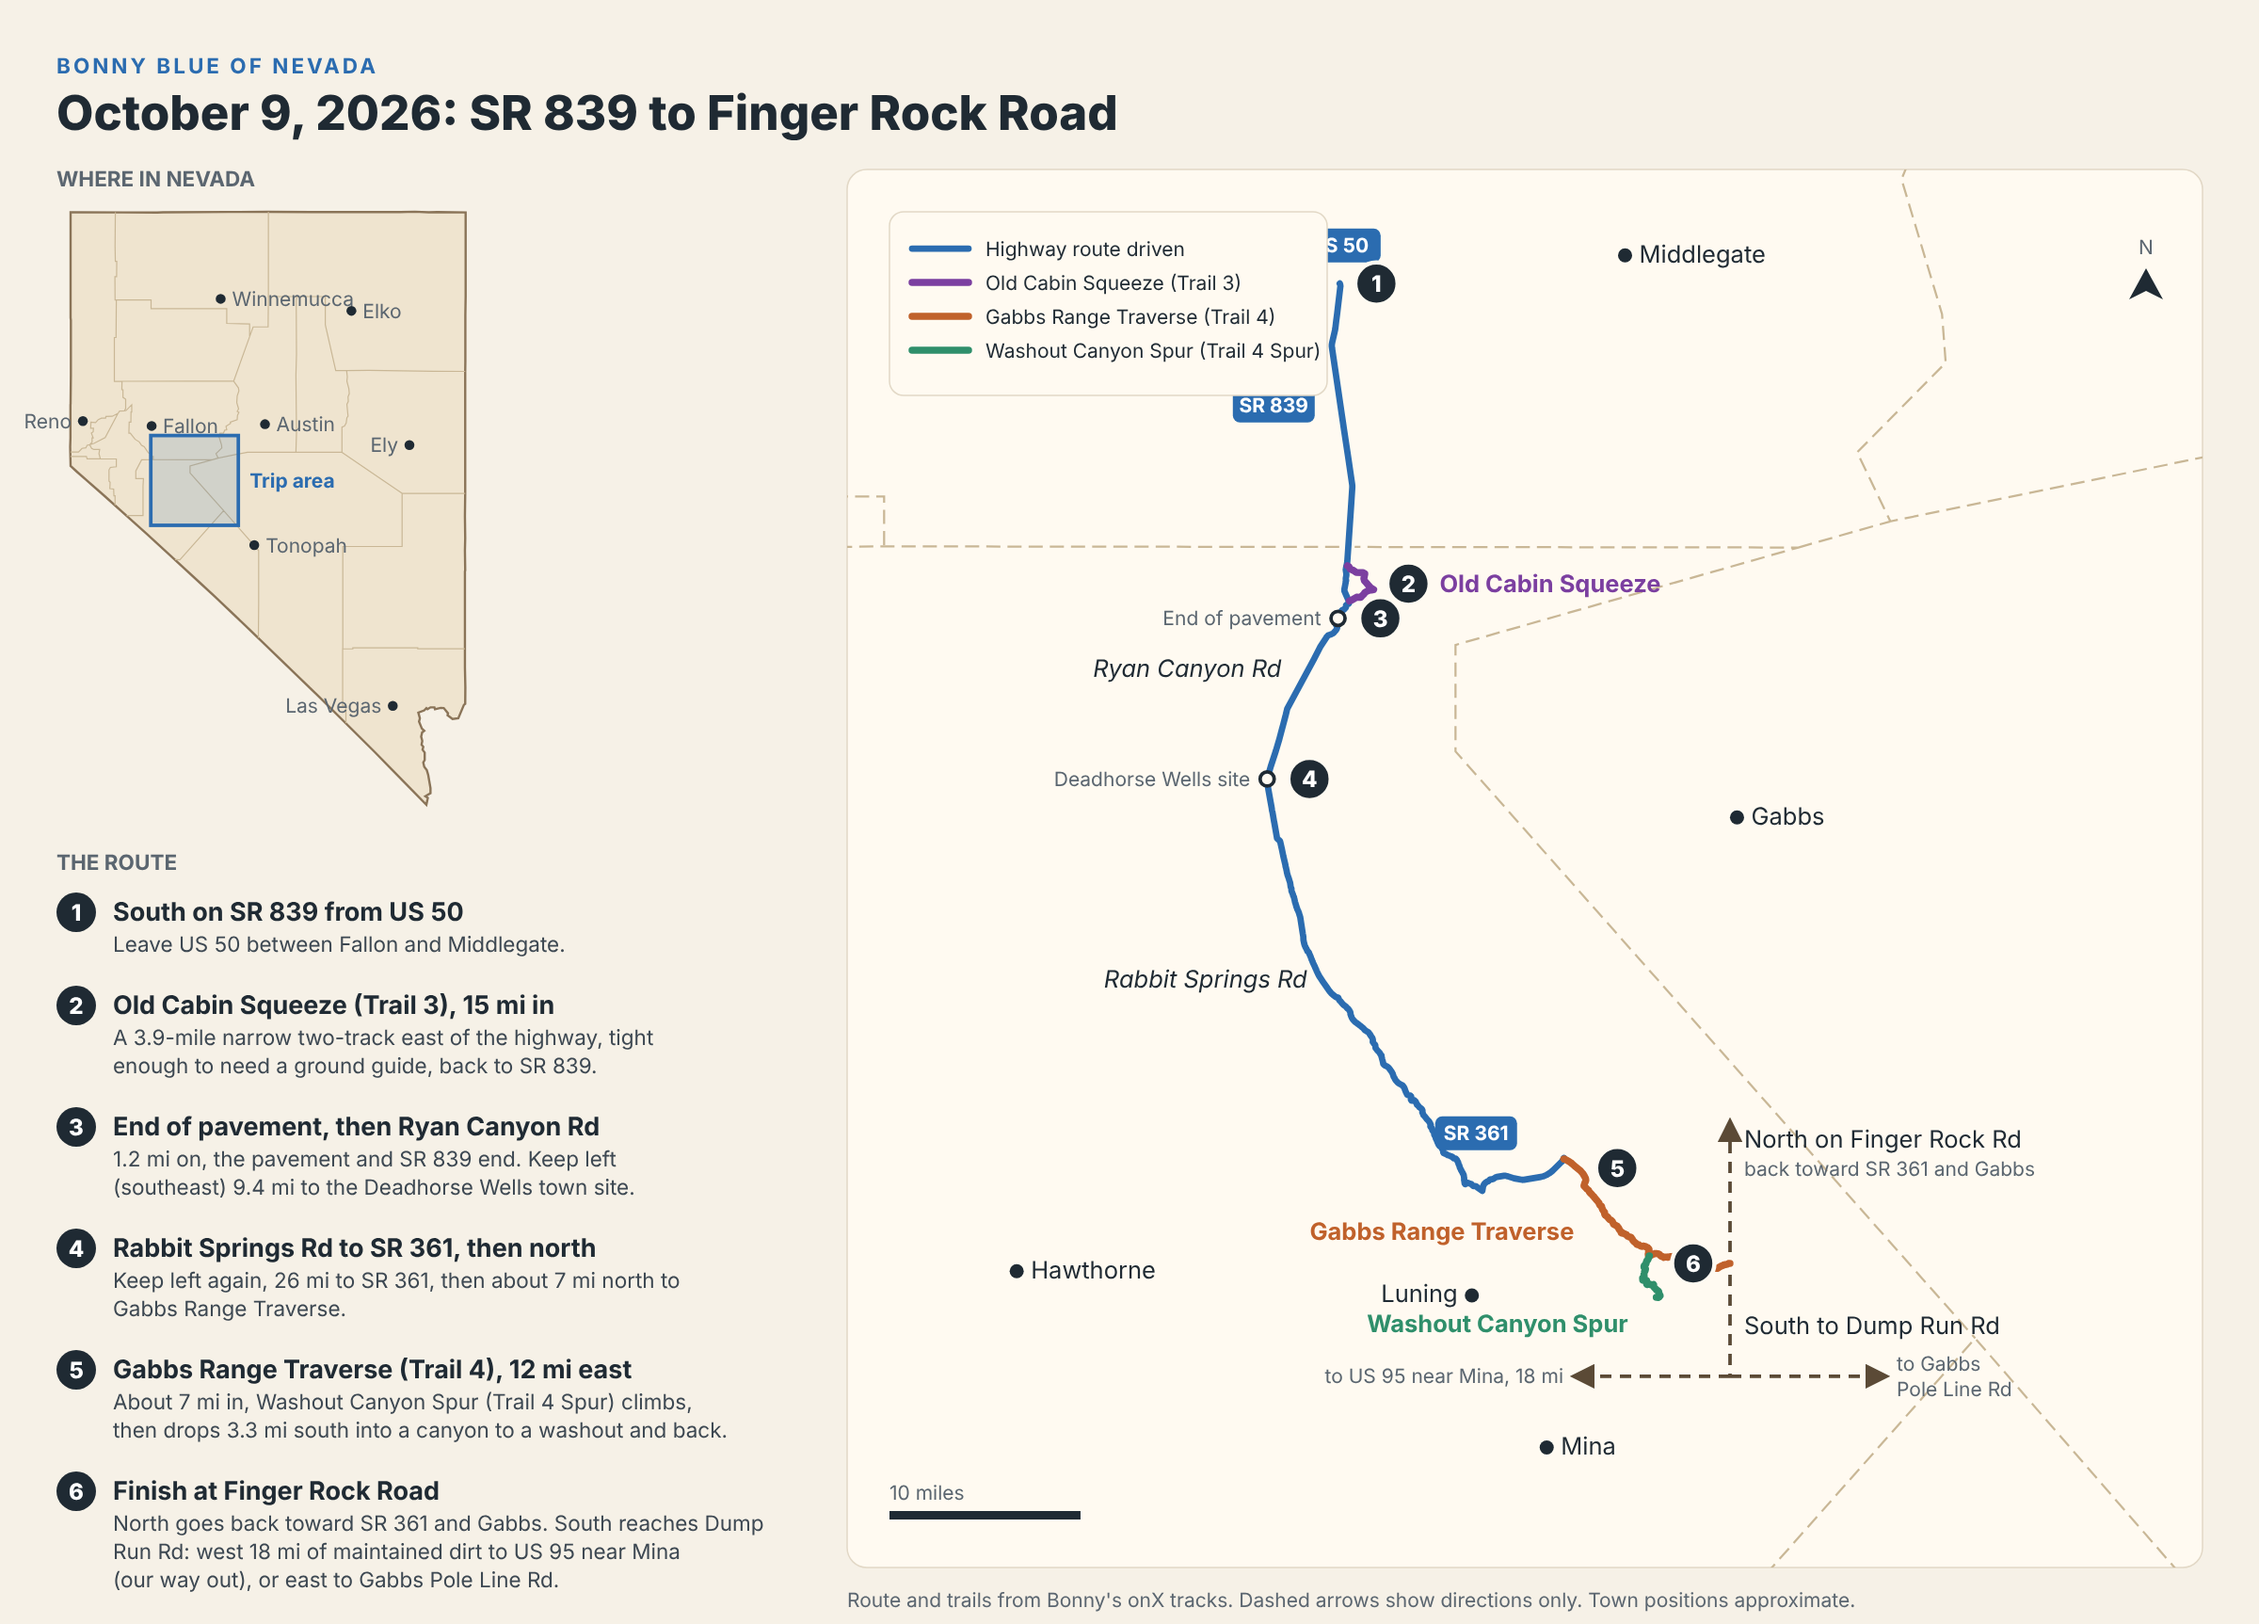
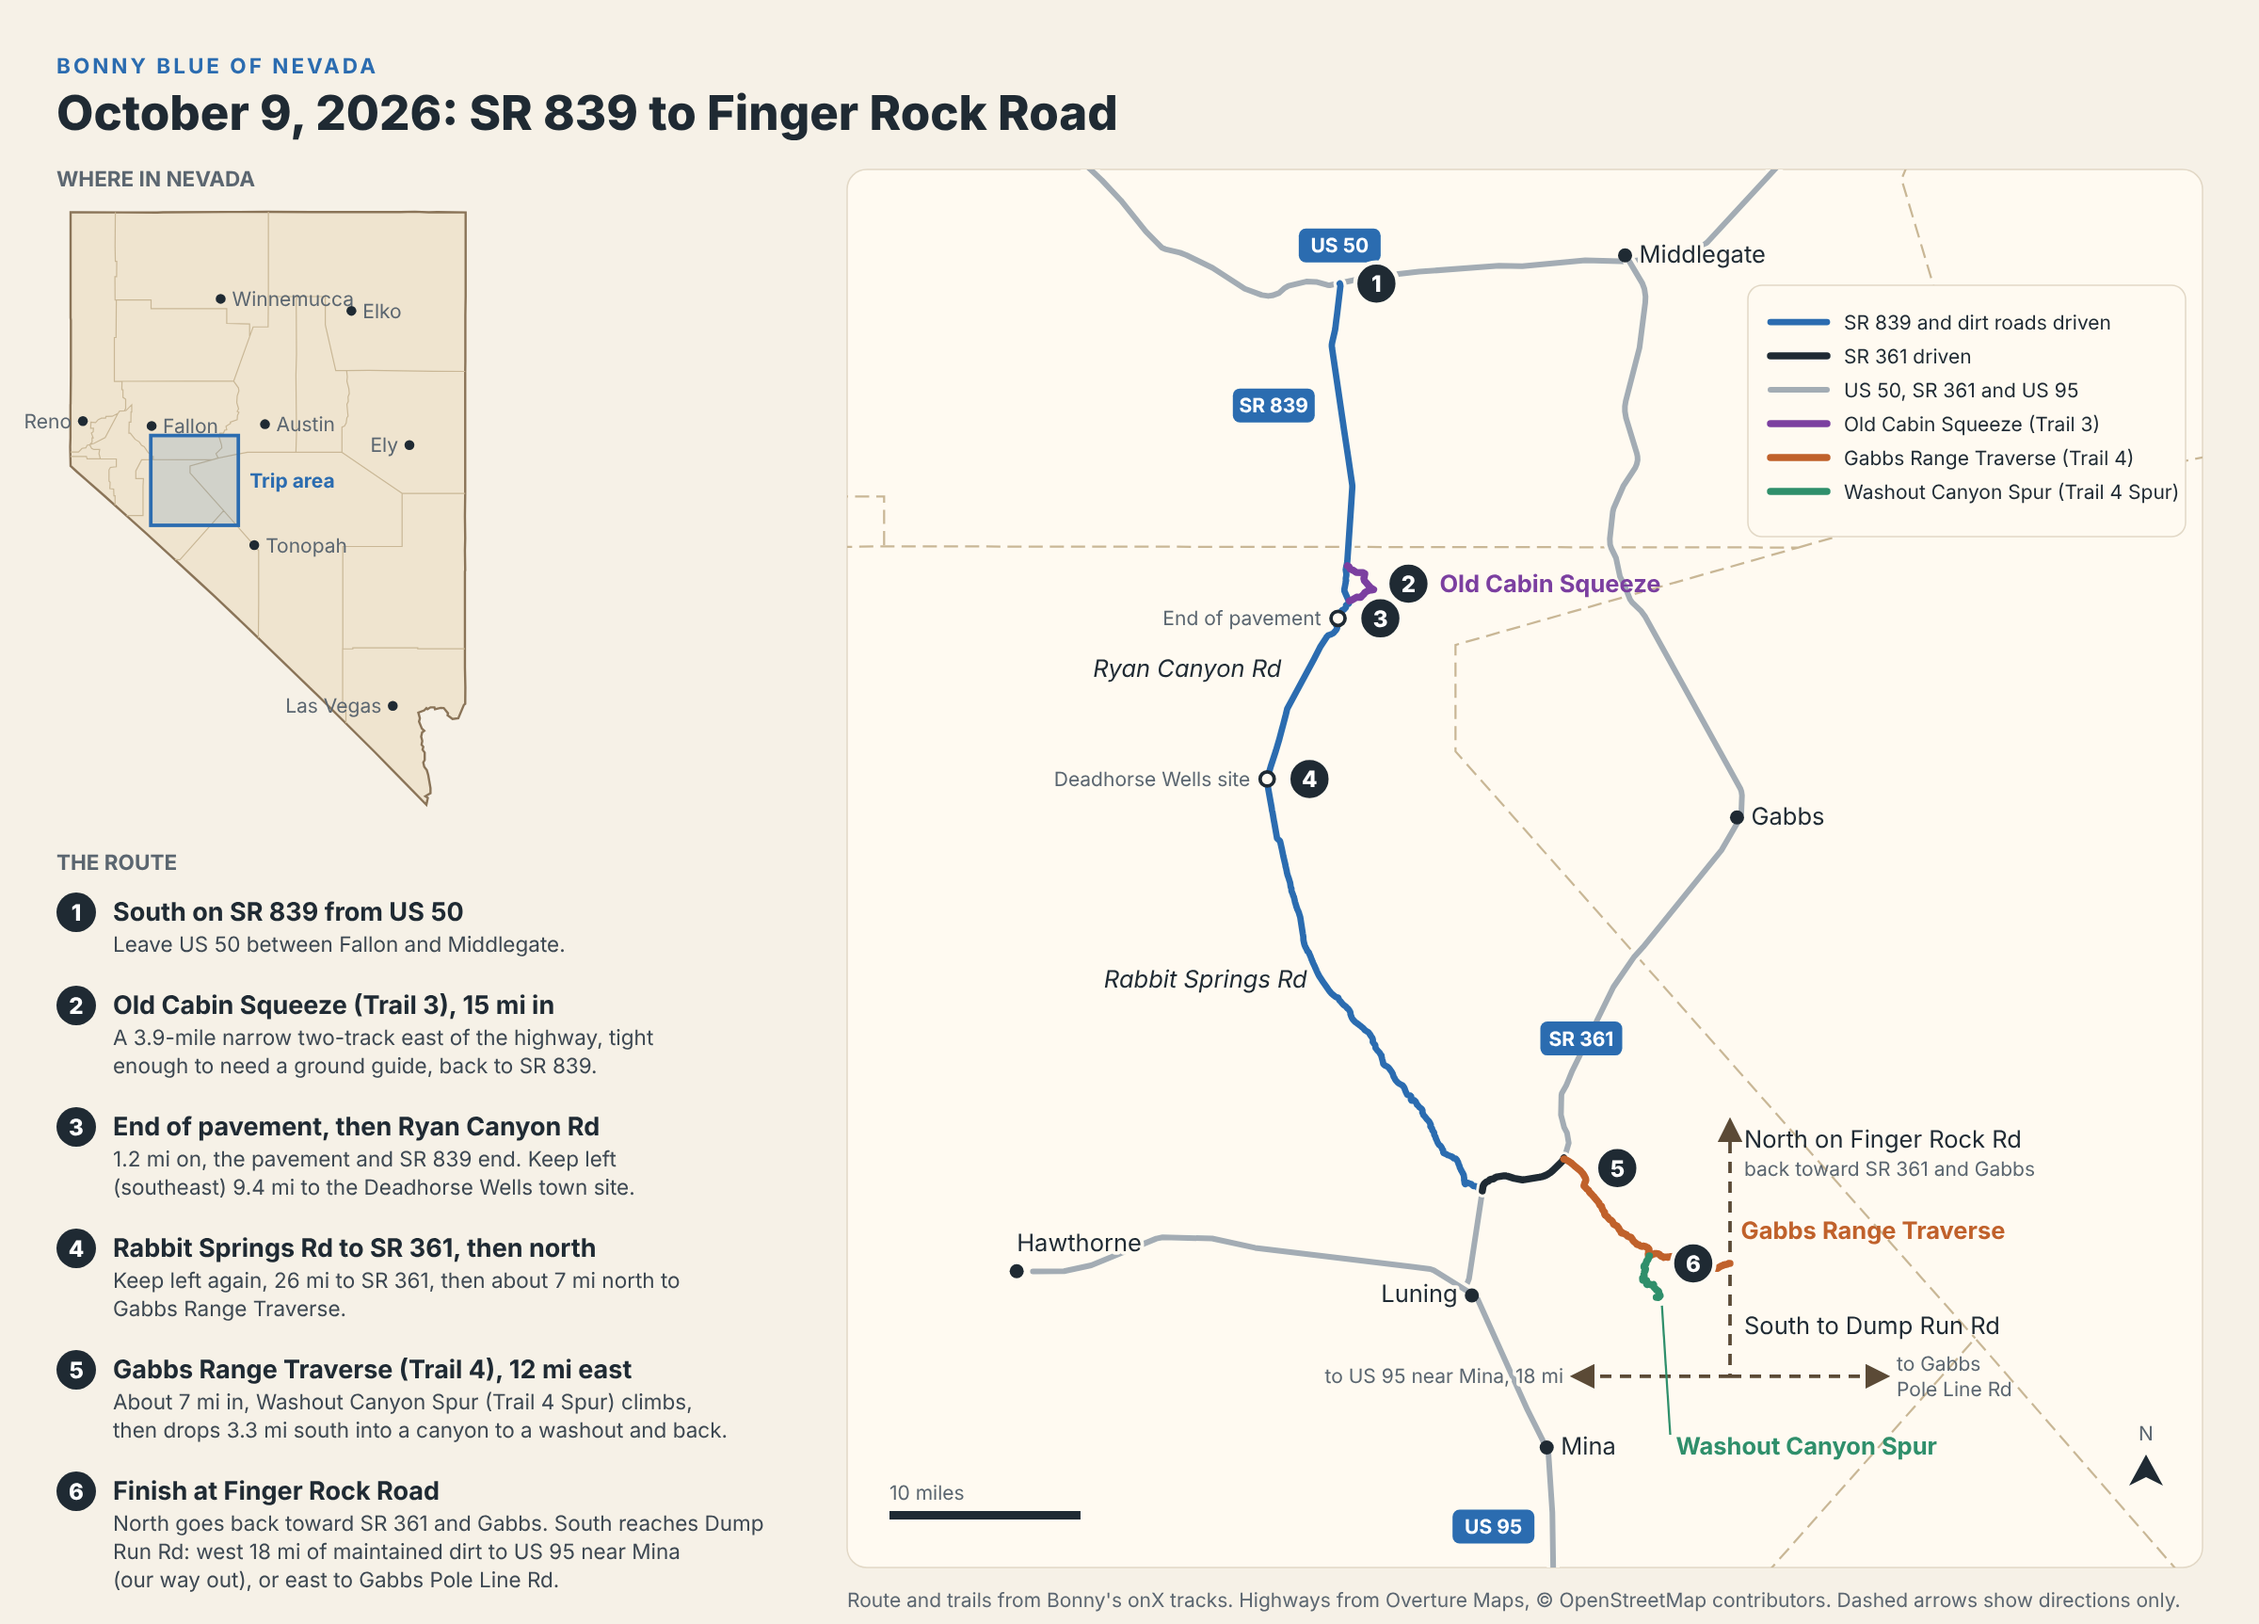
Route map: show US 50, SR 361 and US 95; color the driven SR 361 stretch
Highway lines come from Overture Maps (OpenStreetMap data).

Claude-Session: https://claude.ai/code/session_01UuFR4Tx9EMob2MbPvFBVQu

diff --git a/index.html b/index.html
@@ -138,7 +138,7 @@ footer{max-width:1040px;margin:48px auto 0;padding:28px 16px 48px;border-top:1px
     </figure>
   </div>
   <figure class="map" style="margin:28px 0 0">
-    <a href="img/route-map-2026-10-09.png"><img src="img/route-map-2026-10-09.png" alt="Map of the October 9, 2026 route: SR 839 south from US 50, Old Cabin Squeeze, Ryan Canyon and Rabbit Springs roads to SR 361, then Gabbs Range Traverse and Washout Canyon Spur to Finger Rock Road" style="width:100%;height:auto;display:block;border-radius:8px"></a>
+    <a href="img/route-map-2026-10-09.png"><img src="img/route-map-2026-10-09.png" alt="Map of the October 9, 2026 route: SR 839 south from US 50, Old Cabin Squeeze, Ryan Canyon and Rabbit Springs roads to SR 361 (with US 50, SR 361 and US 95 shown), then Gabbs Range Traverse and Washout Canyon Spur to Finger Rock Road" style="width:100%;height:auto;display:block;border-radius:8px"></a>
     <figcaption class="legend">The full route in the context of Nevada. Tap to enlarge.</figcaption>
   </figure>
 
